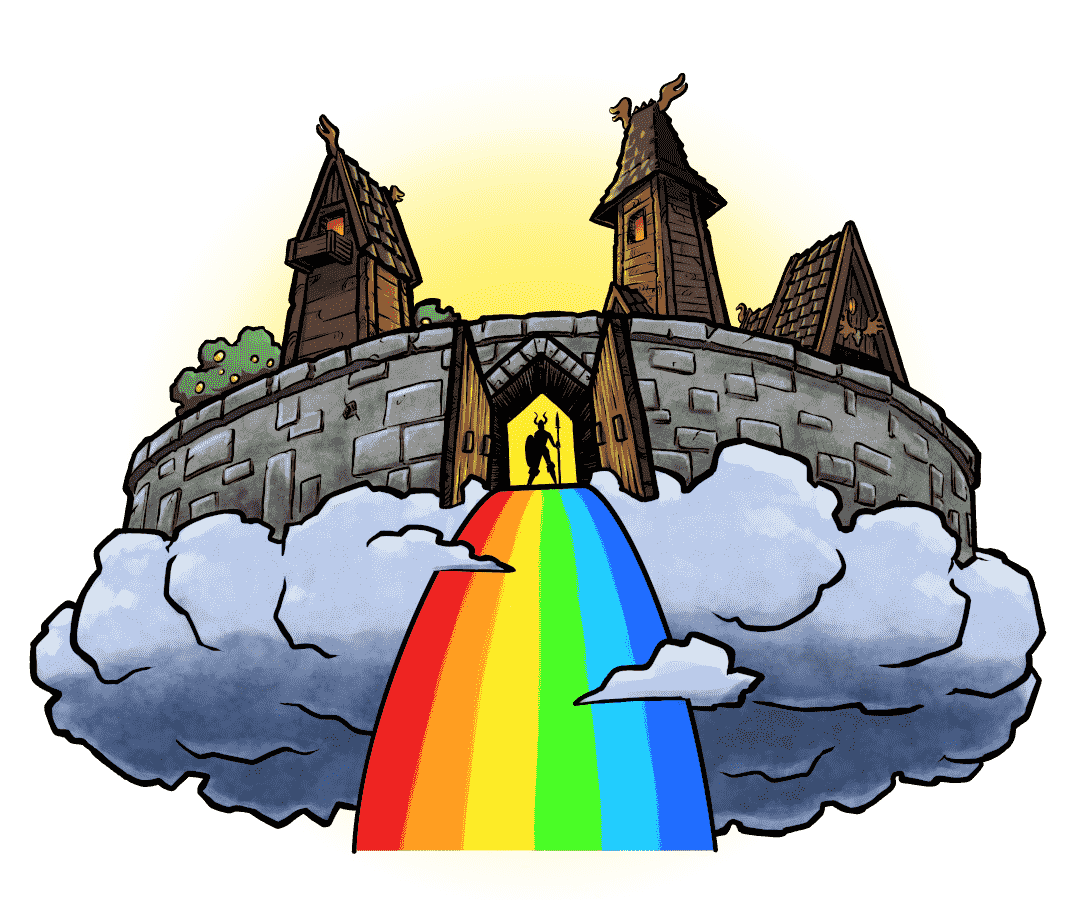
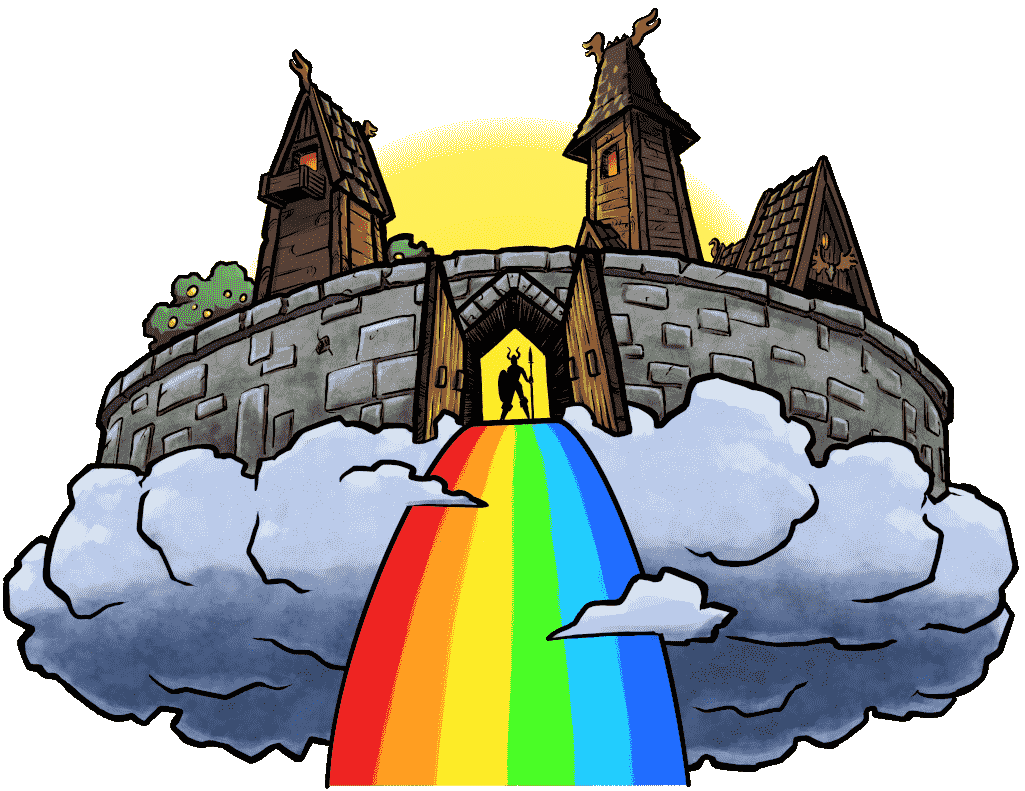
Remove background-image in body tag

diff --git a/layouts/_default/baseof.html b/layouts/_default/baseof.html
@@ -26,7 +26,7 @@
 </head>
 
 
-<body style="background-image: url('background.jpg');">
+<body>
     {{ block "main" . }}
     <div class="questionPage">
 
@@ -34,7 +34,7 @@
 
         <div class="questionPage__wrapper" id="{{ .LinkTitle }}">
 
-            <h2 class="title">{{ .Title }}</h2>
+            <h2 class="title ribbon">{{ .Title }}</h2>
 
             <input type="checkbox" id="checkbox1" onchange={{ if .Params.q1.answer }}"playVideo2();pinch.action.logEvent(pinch.action.event.GOAL_ACHIEVED)"{{ else }}"playVideo1();pinch.action.logEvent(pinch.action.event.INTERACTION)"{{ end }}>
             <label for="checkbox1" id="q1Button" class="button">{{ .Params.q1.question }}</label>
@@ -48,7 +48,7 @@
             <input type="checkbox" id="checkbox4" onchange={{ if .Params.q4.answer }} "playVideo2();pinch.action.logEvent(pinch.action.event.GOAL_ACHIEVED)"{{ else }}"playVideo1();pinch.action.logEvent(pinch.action.event.INTERACTION)"{{ end }}>
             <label for="checkbox4" id="q4Button" class="button">{{ .Params.q4.question }}</label>
 
-            <img class="illustration" src="illustration.png" alt="illustration.png">
+            <img class="illustration" src="illustration.png">
             
             <div class="video-welkom">
                 <video id="videowelkom" class="video">

diff --git a/assets/scss/atoms/_questionPage.scss b/assets/scss/atoms/_questionPage.scss
@@ -1,4 +1,5 @@
 .questionPage {
+    
     // position: relative;
     text-align: center;
     
@@ -26,6 +27,7 @@
             "q2Button" fit-content(100%)
             "q3Button" fit-content(100%)
             "q4Button" fit-content(100%)
+            "illustration" fit-content(100%)
             / 1fr;
     }
 
@@ -46,5 +48,12 @@
     margin-left: 1em;
     margin-right: 1em;
     grid-area: title;
-    display: block;
+    display: block; 
+}
+
+.illustration {
+    margin: 0 auto;
+    padding-top: 2em;
+    max-width: 60%;
+    grid-area: illustration;
 }

diff --git a/assets/scss/_base.scss b/assets/scss/_base.scss
@@ -1,11 +1,16 @@
+html {height: 100%;}
+
 body {
     margin: 0;
     padding: 0;
-    height: 100vh;
+    height: 100%;
     background-size: cover;
     background-repeat: no-repeat;
     background-position: 50% 50%;
+    // background-color: rgb(36, 115, 183);
+    // background-image: linear-gradient(#e66465, #9198e5);
+    background-attachment: fixed;
+    background-image: linear-gradient(0deg, rgb(36, 115, 183), rgb(208, 228, 246));
     overflow: hidden;
     font-family: sans-serif;
-
 }

diff --git a/assets/scss/atoms/_video.scss b/assets/scss/atoms/_video.scss
@@ -59,10 +59,13 @@
     padding: 0.6em;
     background-image: linear-gradient(135deg,  rgb(255, 227, 137), rgb(230, 140, 38));
     color:black;
+    
 
     a {
         text-decoration: none;
         color: black;
+        font-weight: bold;
+        font-size: large;
     }
 
 }

diff --git a/assets/scss/main.scss b/assets/scss/main.scss
@@ -2,4 +2,5 @@
 '_base.scss',
 'atoms/_video.scss',
 'atoms/_button.scss',
-'atoms/_questionPage.scss';
+'atoms/_questionPage.scss',
+'atoms/_ribbon.scss';

diff --git a/content/sprsml/runer/index.md b/content/sprsml/runer/index.md
@@ -1,7 +1,8 @@
 ---
 title: Hva kalles bokstavene de brukte i vikingtiden?
-linktitle: hammer
-layout: hammer
+linktitle: runer
+layout: runer
+background: false
 q1:
   question: Broner
   answer: false

diff --git a/README.md b/README.md
@@ -11,3 +11,5 @@
 ### Content
 
 Alt innhold definers i *frontmatter*, husk å endre `linktitle` og `layout` til <spmnavn> og definer hvilet svar som er rett og feil.
+
+### Layouts

diff --git a/content/sprsml/odinsravner/index.md b/content/sprsml/odinsravner/index.md
@@ -1,7 +1,7 @@
 ---
 title: Hva heter Odins to ravner?
 linktitle: odinsravner
-# layout: odinsravner
+layout: odinsravner
 q1:
   question: Smitt og Smule
   answer: false
